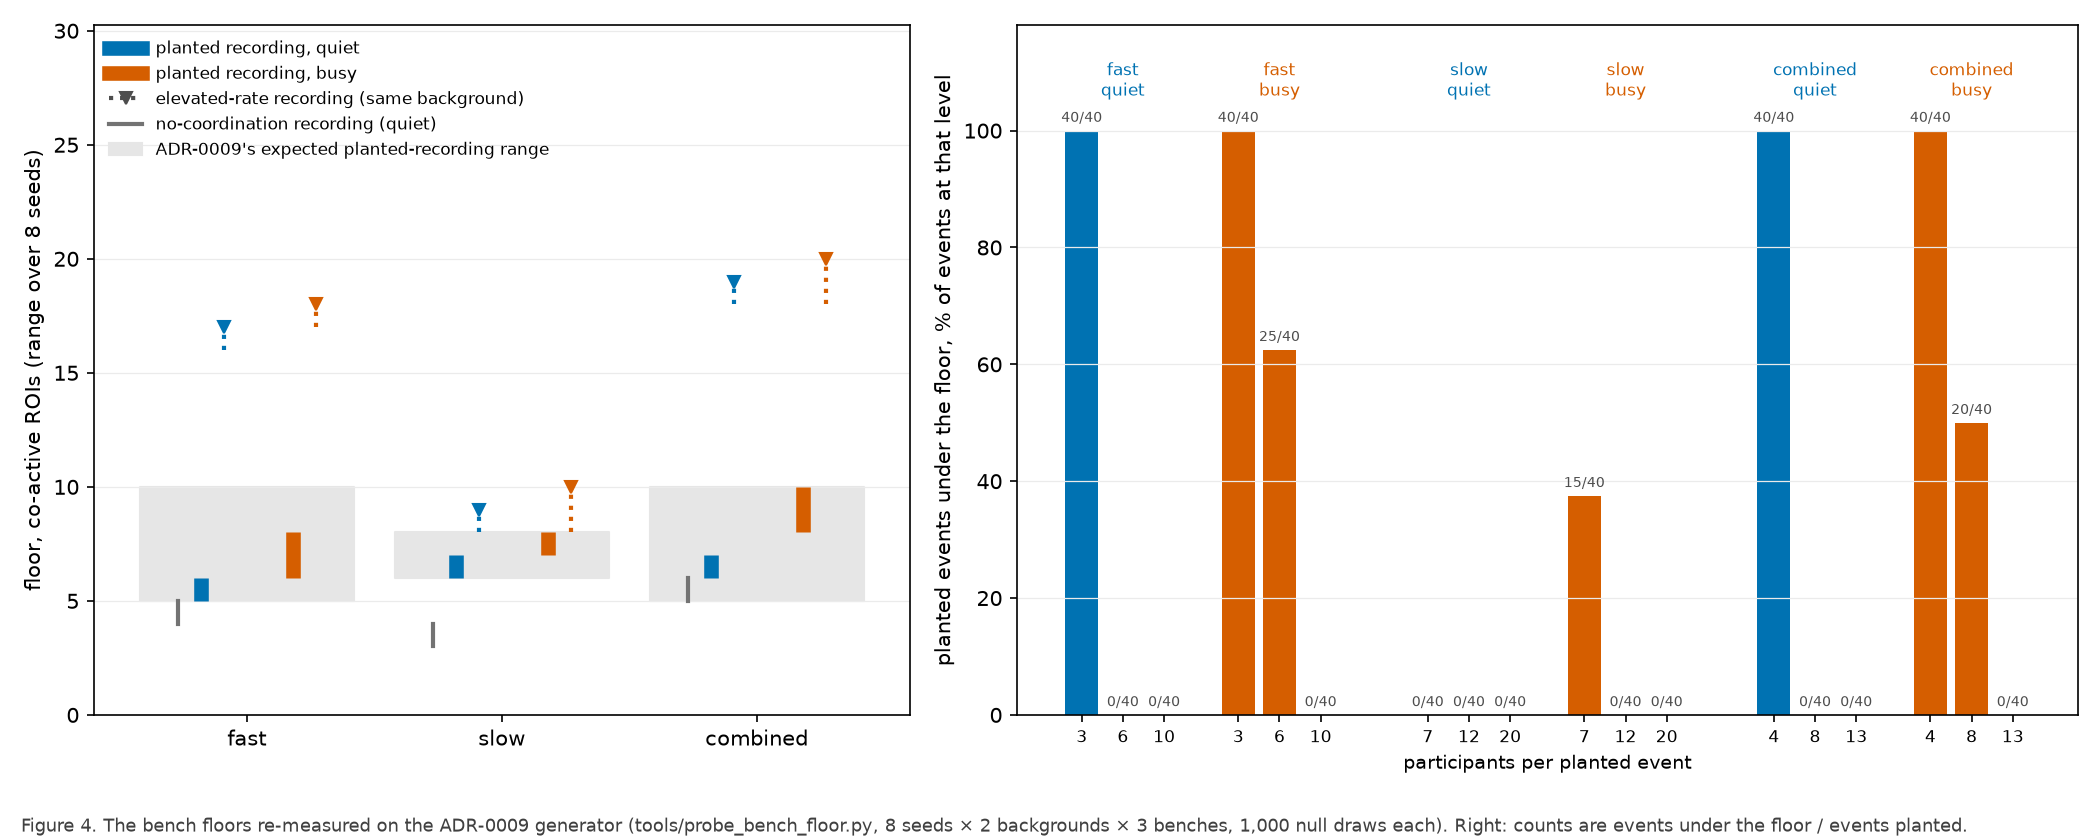
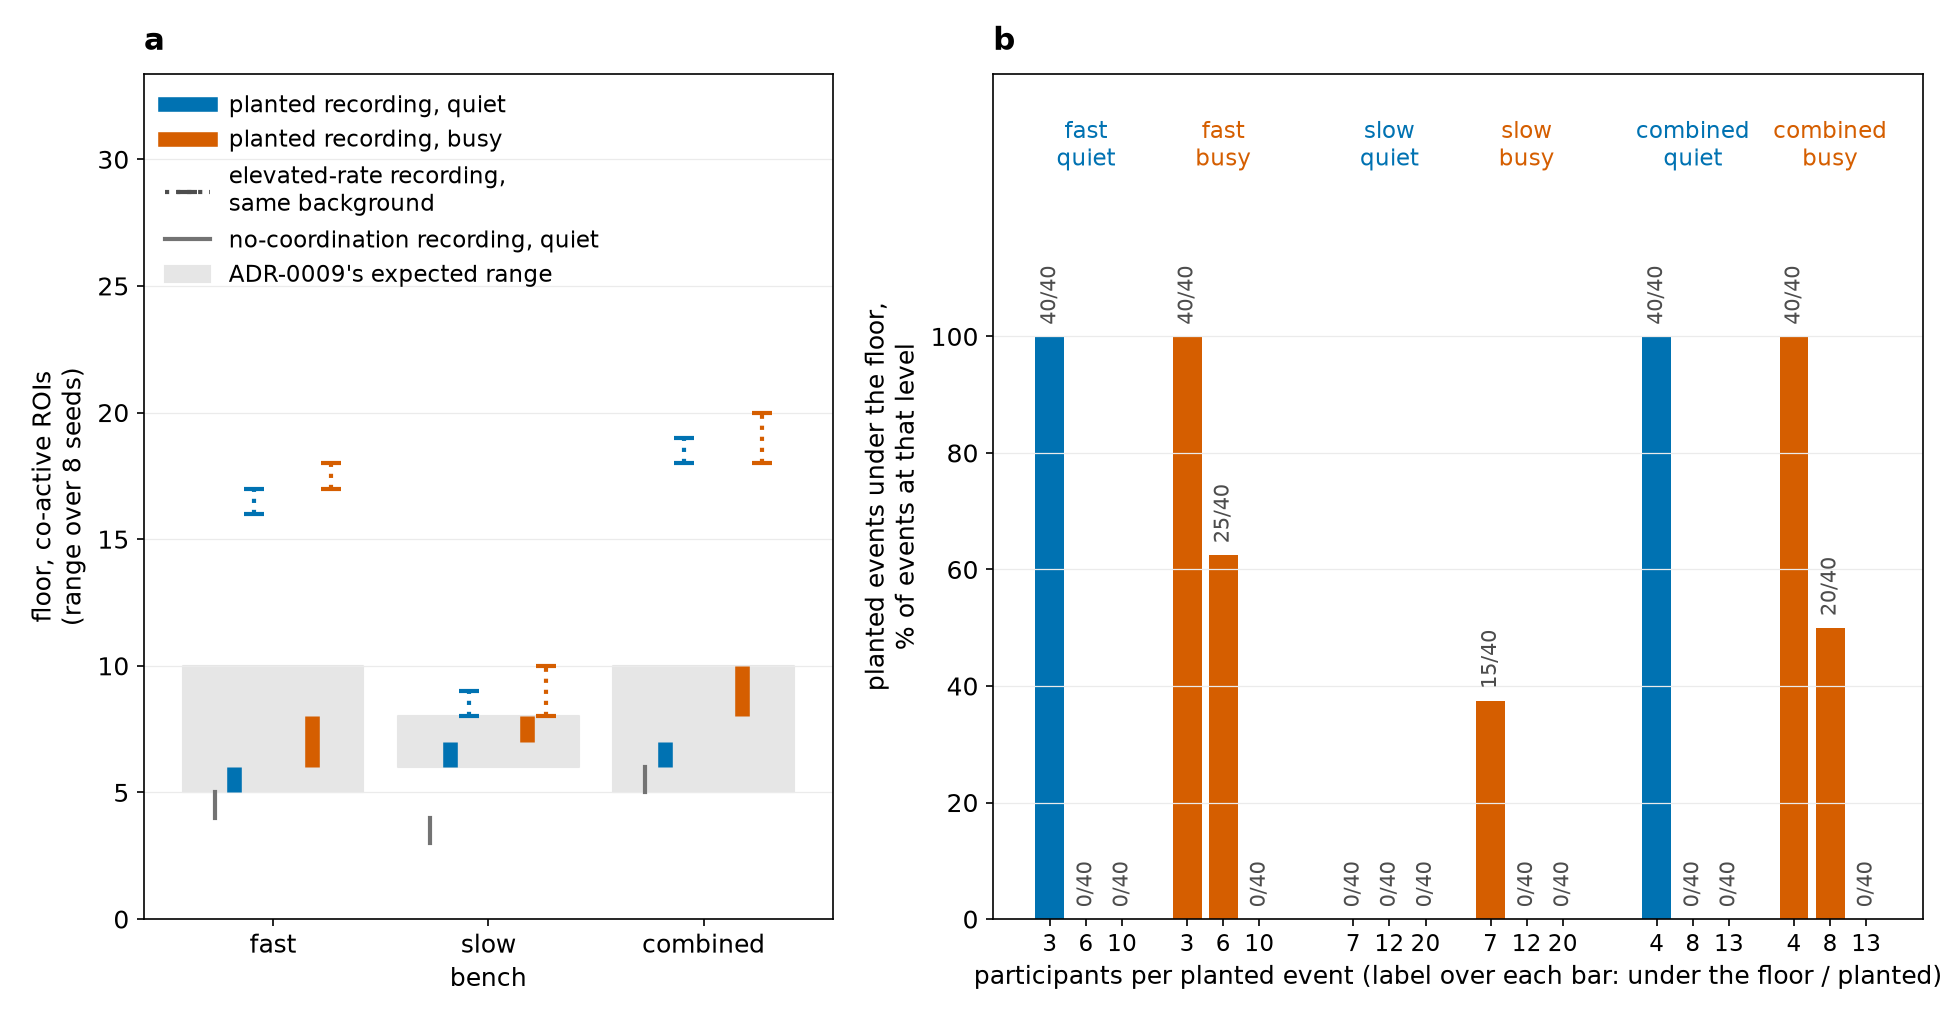
Figures 3 and 4 of the final-parameters report, re-rendered to be read at page width
Figure 3 (the elevated-rate recording): every font raised so nothing is under
about 9 px at page width; CoactDetect's limits drawn over the chorus columns,
dashed, since chorus is held to them and slow chorus_norm fails inside the
stretch; "SCE" labelled binned SCE; panels lettered a-f; the caption baked into
the image dropped, since the README carries it.

Figure 4 (the bench floors): the same fonts; the left x-axis named; the
elevated-rate recording's range drawn with a plain tick at each end instead of
a down triangle, which read as a value; panels lettered; no baked caption.

The README's lines about the old drawing now describe the new one. No number
changes, so nothing was rerun; the darkroom copies under report/ were rendered
by the same commands.

diff --git a/tools/make_elevated_rate_figure.py b/tools/make_elevated_rate_figure.py
@@ -17,9 +17,10 @@ drawn.
 the stretch, against ``MAX_PROBE_PER_MIN``, which gates both backgrounds. Bottom row: calls per
 hour outside it, against ``MAX_FALSE_POSITIVES_PER_HOUR``, which gates the quiet background only
 (the background that budget was measured on); busy is reported, not gated. Each budget is a short
-black bar over its detector. Chorus has no budget of its own and none is drawn for it. Filled marks
-are the quiet background, open marks the busy one; circles are the shipped point, triangles the
-search's proposal.
+black bar over its detector. Chorus has no budget of its own; it is held to CoactDetect's, as the
+chorus pick is, so that bar is drawn over the chorus columns too, dashed. Filled marks are the
+quiet background, open marks the busy one; circles are the shipped point, triangles the search's
+proposal. Panels are lettered; the caption lives in the report, not in the image.
 """
 from __future__ import annotations
 
@@ -39,13 +40,17 @@ STREAMS = ("fast", "slow", "combined")
 MODULE = {"fast": "bugarach.bench", "slow": "bugarach.bench_slow",
           "combined": "bugarach.bench_combined"}
 ORDER = ("coact", "loco", "sce", "rate", "sync", "cicada", "chorus_norm", "chorus_gain_norm")
-NAME = {"coact": "CoactDetect", "loco": "LoCo", "sce": "SCE", "rate": "rate+context",
+NAME = {"coact": "CoactDetect", "loco": "LoCo", "sce": "binned SCE", "rate": "rate+context",
         "sync": "SPIKE-synch", "cicada": "locust", "chorus_norm": "chorus_norm",
         "chorus_gain_norm": "chorus_gain_norm"}
 INK = {"coact": "#0072B2", "loco": "#E69F00", "sce": "#56B4E9", "rate": "#D55E00",
        "sync": "#999933", "cicada": "#000000", "chorus_norm": "#009E73",
        "chorus_gain_norm": "#CC79A7"}
 BACKGROUNDS = ("baseline_quiet", "baseline_busy")
+CHORUS = ("chorus_norm", "chorus_gain_norm")
+FONT = 12
+"""Points. At 150 dpi on a figure 13 in wide, a report page scales the image to about 0.4, so this
+keeps every label near 10 px there (the report asked for nothing under about 9 px)."""
 
 
 def collect(paths) -> dict:
@@ -69,7 +74,8 @@ def collect(paths) -> dict:
 
 
 def draw(rows: dict, out_png: Path) -> Path:
-    fig, axes = plt.subplots(2, 3, figsize=(15, 8.2), sharey="row")
+    plt.rcParams.update({"font.size": FONT})
+    fig, axes = plt.subplots(2, 3, figsize=(13, 10.5), sharey="row")
     for col, stream in enumerate(STREAMS):
         b = importlib.import_module(MODULE[stream])
         present = [f for f in ORDER if any(k[0] == f for k in rows[stream])]
@@ -92,33 +98,38 @@ def draw(rows: dict, out_png: Path) -> Path:
                         ax.plot(x + dx + (-0.05 if quiet else 0.05), v, mk, ms=7,
                                 color=INK[fam], mfc=INK[fam] if quiet else "white", mew=1.4)
                 if fam in budget:
-                    ax.plot([x - 0.35, x + 0.35], [budget[fam]] * 2, color="black", lw=2)
+                    ax.plot([x - 0.35, x + 0.35], [budget[fam]] * 2, color="black", lw=2.2)
+                elif fam in CHORUS and "coact" in budget:
+                    # Chorus is held to CoactDetect's limits (the chorus pick's own rule).
+                    ax.plot([x - 0.35, x + 0.35], [budget["coact"]] * 2, color="black", lw=2.2,
+                            ls=(0, (2, 1.5)))
             ax.set_yscale("symlog", linthresh=0.1)
             ax.set_xticks(range(len(present)))
-            ax.set_xticklabels([NAME[f] for f in present], rotation=35, ha="right", fontsize=8)
+            ax.set_xticklabels([NAME[f] for f in present], rotation=40, ha="right",
+                               fontsize=FONT - 1)
+            ax.tick_params(axis="y", labelsize=FONT - 1)
             ax.set_xlim(-0.6, len(present) - 0.4)
             ax.grid(axis="y", color="0.9", lw=0.6)
+            ax.text(0.0, 1.02, "abcdef"[row_i * 3 + col], transform=ax.transAxes,
+                    fontsize=FONT + 3, fontweight="bold", va="bottom", ha="left")
             if col == 0:
-                ax.set_ylabel(("inside the stretch, " if row_i == 0 else "outside the stretch, ")
-                              + unit + "\n(symmetric log scale)", fontsize=9)
+                ax.set_ylabel(("inside the stretch,\n" if row_i == 0 else "outside the stretch,\n")
+                              + unit + " (symmetric log)", fontsize=FONT)
             if row_i == 1:
-                ax.set_xlabel(f"{stream} stream", fontsize=10)
+                ax.set_xlabel(f"{stream} stream", fontsize=FONT + 1)
     handles = [
         Line2D([], [], marker="o", ls="none", color="0.3", label="shipped point"),
         Line2D([], [], marker="^", ls="none", color="0.3", label="search's proposal"),
         Line2D([], [], marker="o", ls="none", color="0.3", label="quiet background (filled)"),
         Line2D([], [], marker="o", ls="none", mfc="white", mec="0.3",
                label="busy background (open)"),
-        Line2D([], [], color="black", lw=2,
-               label="budget: top row gates both backgrounds, bottom row the quiet one only"),
+        Line2D([], [], color="black", lw=2.2, label="limit (top: both backgrounds; "
+                                                     "bottom: quiet only)"),
+        Line2D([], [], color="black", lw=2.2, ls=(0, (2, 1.5)),
+               label="CoactDetect's limit, applied to chorus"),
         *[Line2D([], [], marker="o", ls="none", color=INK[f], label=NAME[f]) for f in ORDER]]
-    fig.legend(handles=handles, loc="lower center", ncol=7, fontsize=8, frameon=False,
-               bbox_to_anchor=(0.5, 0.04))
-    fig.text(0.01, 0.008, "Figure 3. The elevated-rate recording (ADR-0009): calls inside its "
-             "300 s stretch (top) and outside it (bottom), 12 recordings per background on "
-             "seeds 66000–66011. Chorus shows each training run's picked seed and has no budget "
-             "of its own.", fontsize=8.5, color="0.25")
-    fig.tight_layout(rect=(0, 0.13, 1, 1))
+    fig.legend(handles=handles, loc="lower center", ncol=4, fontsize=FONT - 1, frameon=False)
+    fig.tight_layout(rect=(0, 0.115, 1, 1))
     out_png.parent.mkdir(parents=True, exist_ok=True)
     fig.savefig(out_png, dpi=150)
     plt.close(fig)

diff --git a/tools/make_bench_floor_figure.py b/tools/make_bench_floor_figure.py
@@ -12,8 +12,10 @@ their recording's floor at each participation level.
 
 **What it draws.** Left: the floor range over seeds, in co-active ROIs, for the planted recording
 (bar), with ADR-0009's expected range shaded behind it, and the elevated-rate and no-coordination
-recordings' floors beside it. Right: the share of planted events under the floor at each
-participation level; under ADR-0009 decision 2 those are "don't care", neither hit nor miss.
+recordings' floors beside it; each range is a vertical line with a plain tick at each end. Right:
+the share of planted events under the floor at each participation level; under ADR-0009 decision
+2 those are "don't care", neither hit nor miss. Panels are lettered; the caption lives in the
+report, not in the image.
 """
 from __future__ import annotations
 
@@ -33,11 +35,14 @@ BENCHES = ("fast", "slow", "combined")
 BACKGROUNDS = ("baseline_quiet", "baseline_busy")
 SHORT = {"baseline_quiet": "quiet", "baseline_busy": "busy"}
 INK = {"baseline_quiet": "#0072B2", "baseline_busy": "#D55E00"}
+FONT = 12
+"""Points; with a figure 13 in wide this keeps labels near 10 px at report page width."""
 
 
 def draw(rec: dict, out_png: Path) -> Path:
+    plt.rcParams.update({"font.size": FONT})
     S, expected = rec["summary"], rec.get("expected", {})
-    fig, (ax, bx) = plt.subplots(1, 2, figsize=(14, 5.6), gridspec_kw=dict(width_ratios=[1, 1.3]))
+    fig, (ax, bx) = plt.subplots(1, 2, figsize=(13, 6.8), gridspec_kw=dict(width_ratios=[1, 1.35]))
     ticks, labels = [], []
     for i, bench in enumerate(BENCHES):
         lo_hi = expected.get(bench)
@@ -51,8 +56,9 @@ def draw(rec: dict, out_png: Path) -> Path:
             lo, hi = e["bench_floor_range"]
             ax.plot([x, x], [lo, hi], color=INK[bg], lw=7, solid_capstyle="butt")
             el = e["elevated_rate_floor_range"]
+            # A range, not a value: a dotted line with a plain tick at each end.
             ax.plot([x + 0.09] * 2, el, color=INK[bg], lw=2, ls=":")
-            ax.plot(x + 0.09, el[1], "v", color=INK[bg], ms=6)
+            ax.plot([x + 0.09] * 2, el, "_", color=INK[bg], ms=10, mew=2)
             if "null_floor_range" in e:
                 nl = e["null_floor_range"]
                 ax.plot([x - 0.09] * 2, nl, color="0.45", lw=2)
@@ -61,17 +67,21 @@ def draw(rec: dict, out_png: Path) -> Path:
     ax.set_xticks(ticks)
     ax.set_xticklabels(labels)
     ax.set_xlim(-0.6, len(BENCHES) - 0.4)
-    ax.set_ylabel("floor, co-active ROIs (range over 8 seeds)")
-    ax.set_ylim(0, ax.get_ylim()[1] * 1.45)          # headroom: the legend sits above the data
+    ax.set_xlabel("bench")
+    ax.set_ylabel("floor, co-active ROIs\n(range over 8 seeds)")
+    ax.set_ylim(0, ax.get_ylim()[1] * 1.6)           # headroom: the legend sits above the data
     ax.grid(axis="y", color="0.92", lw=0.6)
     ax.legend(handles=[
         Line2D([], [], color=INK["baseline_quiet"], lw=7, label="planted recording, quiet"),
         Line2D([], [], color=INK["baseline_busy"], lw=7, label="planted recording, busy"),
-        Line2D([], [], color="0.3", lw=2, ls=":", marker="v",
-               label="elevated-rate recording (same background)"),
-        Line2D([], [], color="0.45", lw=2, label="no-coordination recording (quiet)"),
-        Patch(color="0.9", label="ADR-0009's expected planted-recording range")],
-        fontsize=8, loc="upper left", frameon=False)
+        Line2D([], [], color="0.3", lw=2, ls=":", marker="_", ms=10, mew=2,
+               label="elevated-rate recording,\nsame background"),
+        Line2D([], [], color="0.45", lw=2, label="no-coordination recording, quiet"),
+        Patch(color="0.9", label="ADR-0009's expected range")],
+        fontsize=FONT - 1, loc="upper left", frameon=False)
+    for axis, letter in ((ax, "a"), (bx, "b")):
+        axis.text(0.0, 1.02, letter, transform=axis.transAxes, fontsize=FONT + 3,
+                  fontweight="bold", va="bottom", ha="left")
     x = 0
     xt, xl = [], []
     for bench in BENCHES:
@@ -80,29 +90,26 @@ def draw(rec: dict, out_png: Path) -> Path:
             if not e:
                 continue
             by = e["below_floor_by_participants"]
-            bx.text(x + (len(by) - 1) / 2, 106, f"{bench}\n{SHORT[bg]}", ha="center",
-                    fontsize=8, color=INK[bg])
+            bx.text(x + (len(by) - 1) / 2, 128, f"{bench}\n{SHORT[bg]}", ha="center",
+                    va="bottom", fontsize=FONT - 1, color=INK[bg])
             for k in sorted(by, key=int):
                 v = by[k]
                 bx.bar(x, 100 * v["share"], color=INK[bg], width=0.8)
-                bx.text(x, 100 * v["share"] + 1.5, f"{v['below_floor']}/{v['planted']}",
-                        ha="center", fontsize=6.5, color="0.3")
+                bx.text(x, 100 * v["share"] + 2, f"{v['below_floor']}/{v['planted']}",
+                        ha="center", va="bottom", rotation=90, fontsize=FONT - 2, color="0.3")
                 xt.append(x)
                 xl.append(f"{k}")
                 x += 1
             x += 0.8
         x += 0.8
     bx.set_xticks(xt)
-    bx.set_xticklabels(xl, fontsize=8)
-    bx.set_ylim(0, 118)
-    bx.set_ylabel("planted events under the floor, % of events at that level")
-    bx.set_xlabel("participants per planted event", fontsize=9)
+    bx.set_xticklabels(xl, fontsize=FONT - 1)
+    bx.set_ylim(0, 145)
+    bx.set_yticks(range(0, 101, 20))
+    bx.set_ylabel("planted events under the floor,\n% of events at that level")
+    bx.set_xlabel("participants per planted event (label over each bar: under the floor / planted)")
     bx.grid(axis="y", color="0.92", lw=0.6)
-    fig.text(0.01, 0.01, "Figure 4. The bench floors re-measured on the ADR-0009 generator "
-             "(tools/probe_bench_floor.py, 8 seeds × 2 backgrounds × 3 benches, 1,000 null "
-             "draws each). Right: counts are events under the floor / events planted.",
-             fontsize=8.5, color="0.25")
-    fig.tight_layout(rect=(0, 0.05, 1, 1))
+    fig.tight_layout()
     out_png.parent.mkdir(parents=True, exist_ok=True)
     fig.savefig(out_png, dpi=150)
     plt.close(fig)

diff --git a/docs/learned/runs/2026-09-25-final-parameters/README.md b/docs/learned/runs/2026-09-25-final-parameters/README.md
@@ -170,7 +170,7 @@ background separately, while the search's held-out interval uses one index for b
 - **One proposal goes over a limit where that limit is not applied.** Calls outside the stretch are
   held to their limit on the quiet background only. On busy, combined rate+context's proposal makes
   1.28 calls per hour on the held-out seeds and 1.38 on the fresh ones, against a limit of 1
-  (Figure 3, bottom right).
+  (Figure 3, panel f).
 
 **Decide:** adopt all four, some, or none. For combined SPIKE-synch, either rule on whether a fixed
 coincidence window may still be called SPIKE-synch, or ask for the `C_threshold`-only variant to be
@@ -250,7 +250,7 @@ failing.**
 
 **Also failing, in Table 2 only until now:** slow chorus_norm's picked fit fails the elevated-rate
 test inside the stretch, against CoactDetect's limits (about 1.4 calls per minute on quiet, limit
-1.0). Figure 3 draws no limit for chorus.
+1.0). Figure 3 draws CoactDetect's limits over the chorus columns, dashed; this is panel b.
 
 Fast SPIKE-synch and rate+context have no proposal because every neighbouring setting the search
 tried also failed, which left it no allowed move. The diagnosis is in the darkroom, at
@@ -265,7 +265,9 @@ tried also failed, which left it no allowed move. The diagnosis is in the darkro
   backgrounds.
 - The bottom row, calls per hour outside it, is held to its limit on the quiet background only. An
   open marker (busy) above its bar there is not a failure.
-- The recordings are 12 per background, on seeds 66000–66011. "SCE" on its axis is binned SCE.
+- The recordings are 12 per background, on seeds 66000–66011.
+- Panels a–c are inside the stretch and d–f outside it, for the fast, slow and combined streams.
+  Chorus has no limit of its own and is held to CoactDetect's, drawn dashed over its columns.
 
 ![Figure 3](figure3_elevated_rate.png)
 
@@ -295,10 +297,10 @@ because neither is a neutral re-measurement:
 
 **Figure 4. The bench floors re-measured on the ADR-0009 bench, supplied by WSMIP065.**
 
-- Left: each recording kind's floor in co-active ROIs, as the range over 8 seeds, against the range
-  ADR-0009 expected. The elevated-rate recording's range is drawn as a dotted line whose ▼ marks its
-  top, not a separate value.
-- Right: the share of planted events under the floor at each participant count, over the same
+- Panel a: each recording kind's floor in co-active ROIs, as the range over 8 seeds, against the
+  range ADR-0009 expected. The elevated-rate recording's range is drawn as a dotted line with a
+  plain tick at each end.
+- Panel b: the share of planted events under the floor at each participant count, over the same
   8 seeds × 5 events.
 
 ![Figure 4](figure4_bench_floors.png)

diff --git a/docs/SESSIONS.md b/docs/SESSIONS.md
@@ -21,6 +21,12 @@ cannot travel (live process ids, that box's free disk, local scratch paths).
   `docs/goals/coded-detector-optimization.md`. Cutoff: phase 2 starts tonight only if both PRs are
   on `main` by 01:00 EDT (05:00 UTC).
 
+### 065/figures-3-4-rerender — DARKROOM claim: `bugarach/2026-09-25-final-parameters/report/figure3_elevated_rate.png` and `figure4_bench_floors.png`
+- **Status:** claimed 2026-09-25 ~08:40 UTC, before writing, by WSMIP065 at the orchestrator's
+  request: Figures 3 and 4 of the final-parameters report re-rendered (fonts, panel letters, chorus
+  limits, no baked caption). Released by the merge that brings this block to `main`.
+- **Touches:** those two files in `report/` only; nothing else there, and no number changes.
+
 ### 065/bench-adr-0009 — DARKROOM claim: `bugarach/2026-09-25-final-parameters/065/` (NEW, under the orchestrator's #807 claim)
 - **Status:** claimed 2026-09-25 ~02:10 UTC, before writing, by WSMIP065 for PR A of the
   final-parameters night (`docs/handoffs/2026-09-25-overnight-final-parameters.md`, phase 0; ADR-0009 decision 1).
